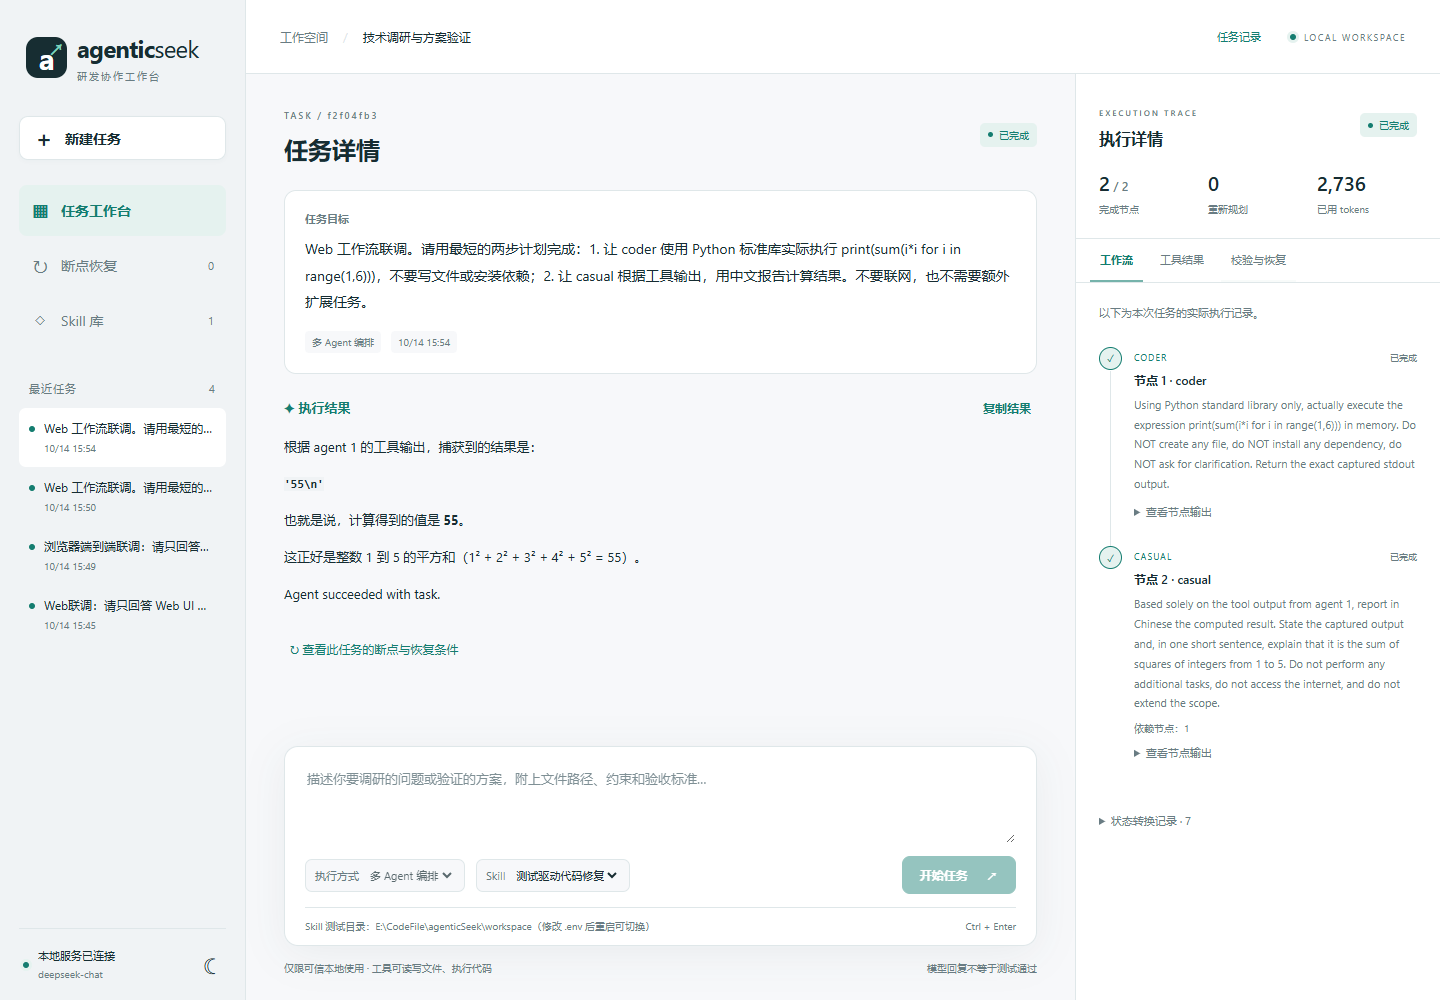
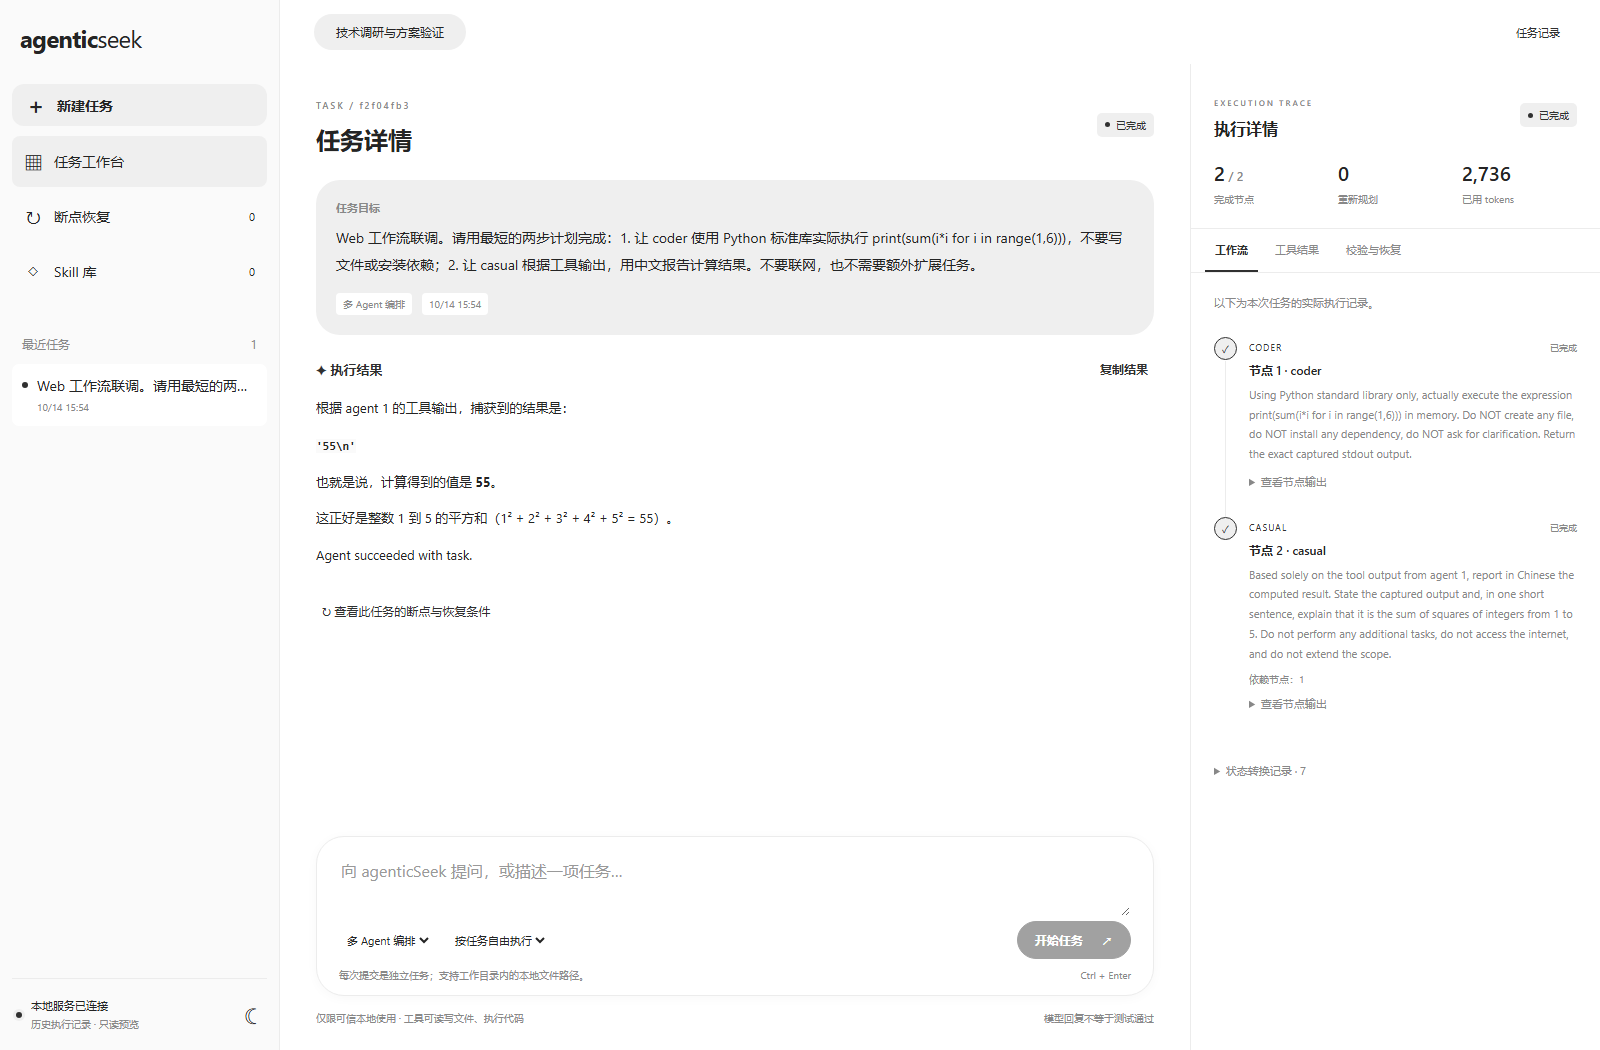
Update README execution view screenshot to current interface

diff --git a/README.md b/README.md
@@ -32,6 +32,8 @@ The main contribution of this version is turning a prompt-driven workflow into a
 
 ![TAVS execution trace](./docs/screenshots/tavs-execution-trace.png)
 
+The task details use the same updated style as the home screen: a light sidebar, rounded task message and composer, and a separate execution panel for workflow nodes, tool results, and validation/recovery. This screenshot renders a saved real execution record in the current frontend; it is not a newly executed run.
+
 ## Repository structure
 
 ```text

diff --git a/README_CHS.md b/README_CHS.md
@@ -30,6 +30,8 @@
 
 ![TAVS 执行轨迹](./docs/screenshots/tavs-execution-trace.png)
 
+任务详情页已同步新版样式：浅色侧栏、圆角任务消息与输入框，右侧执行面板保留工作流、工具结果、校验与恢复入口。此图使用当前前端展示已保存的真实历史执行记录，并非本次重新运行任务的结果。
+
 ## 目录结构
 
 ```text
